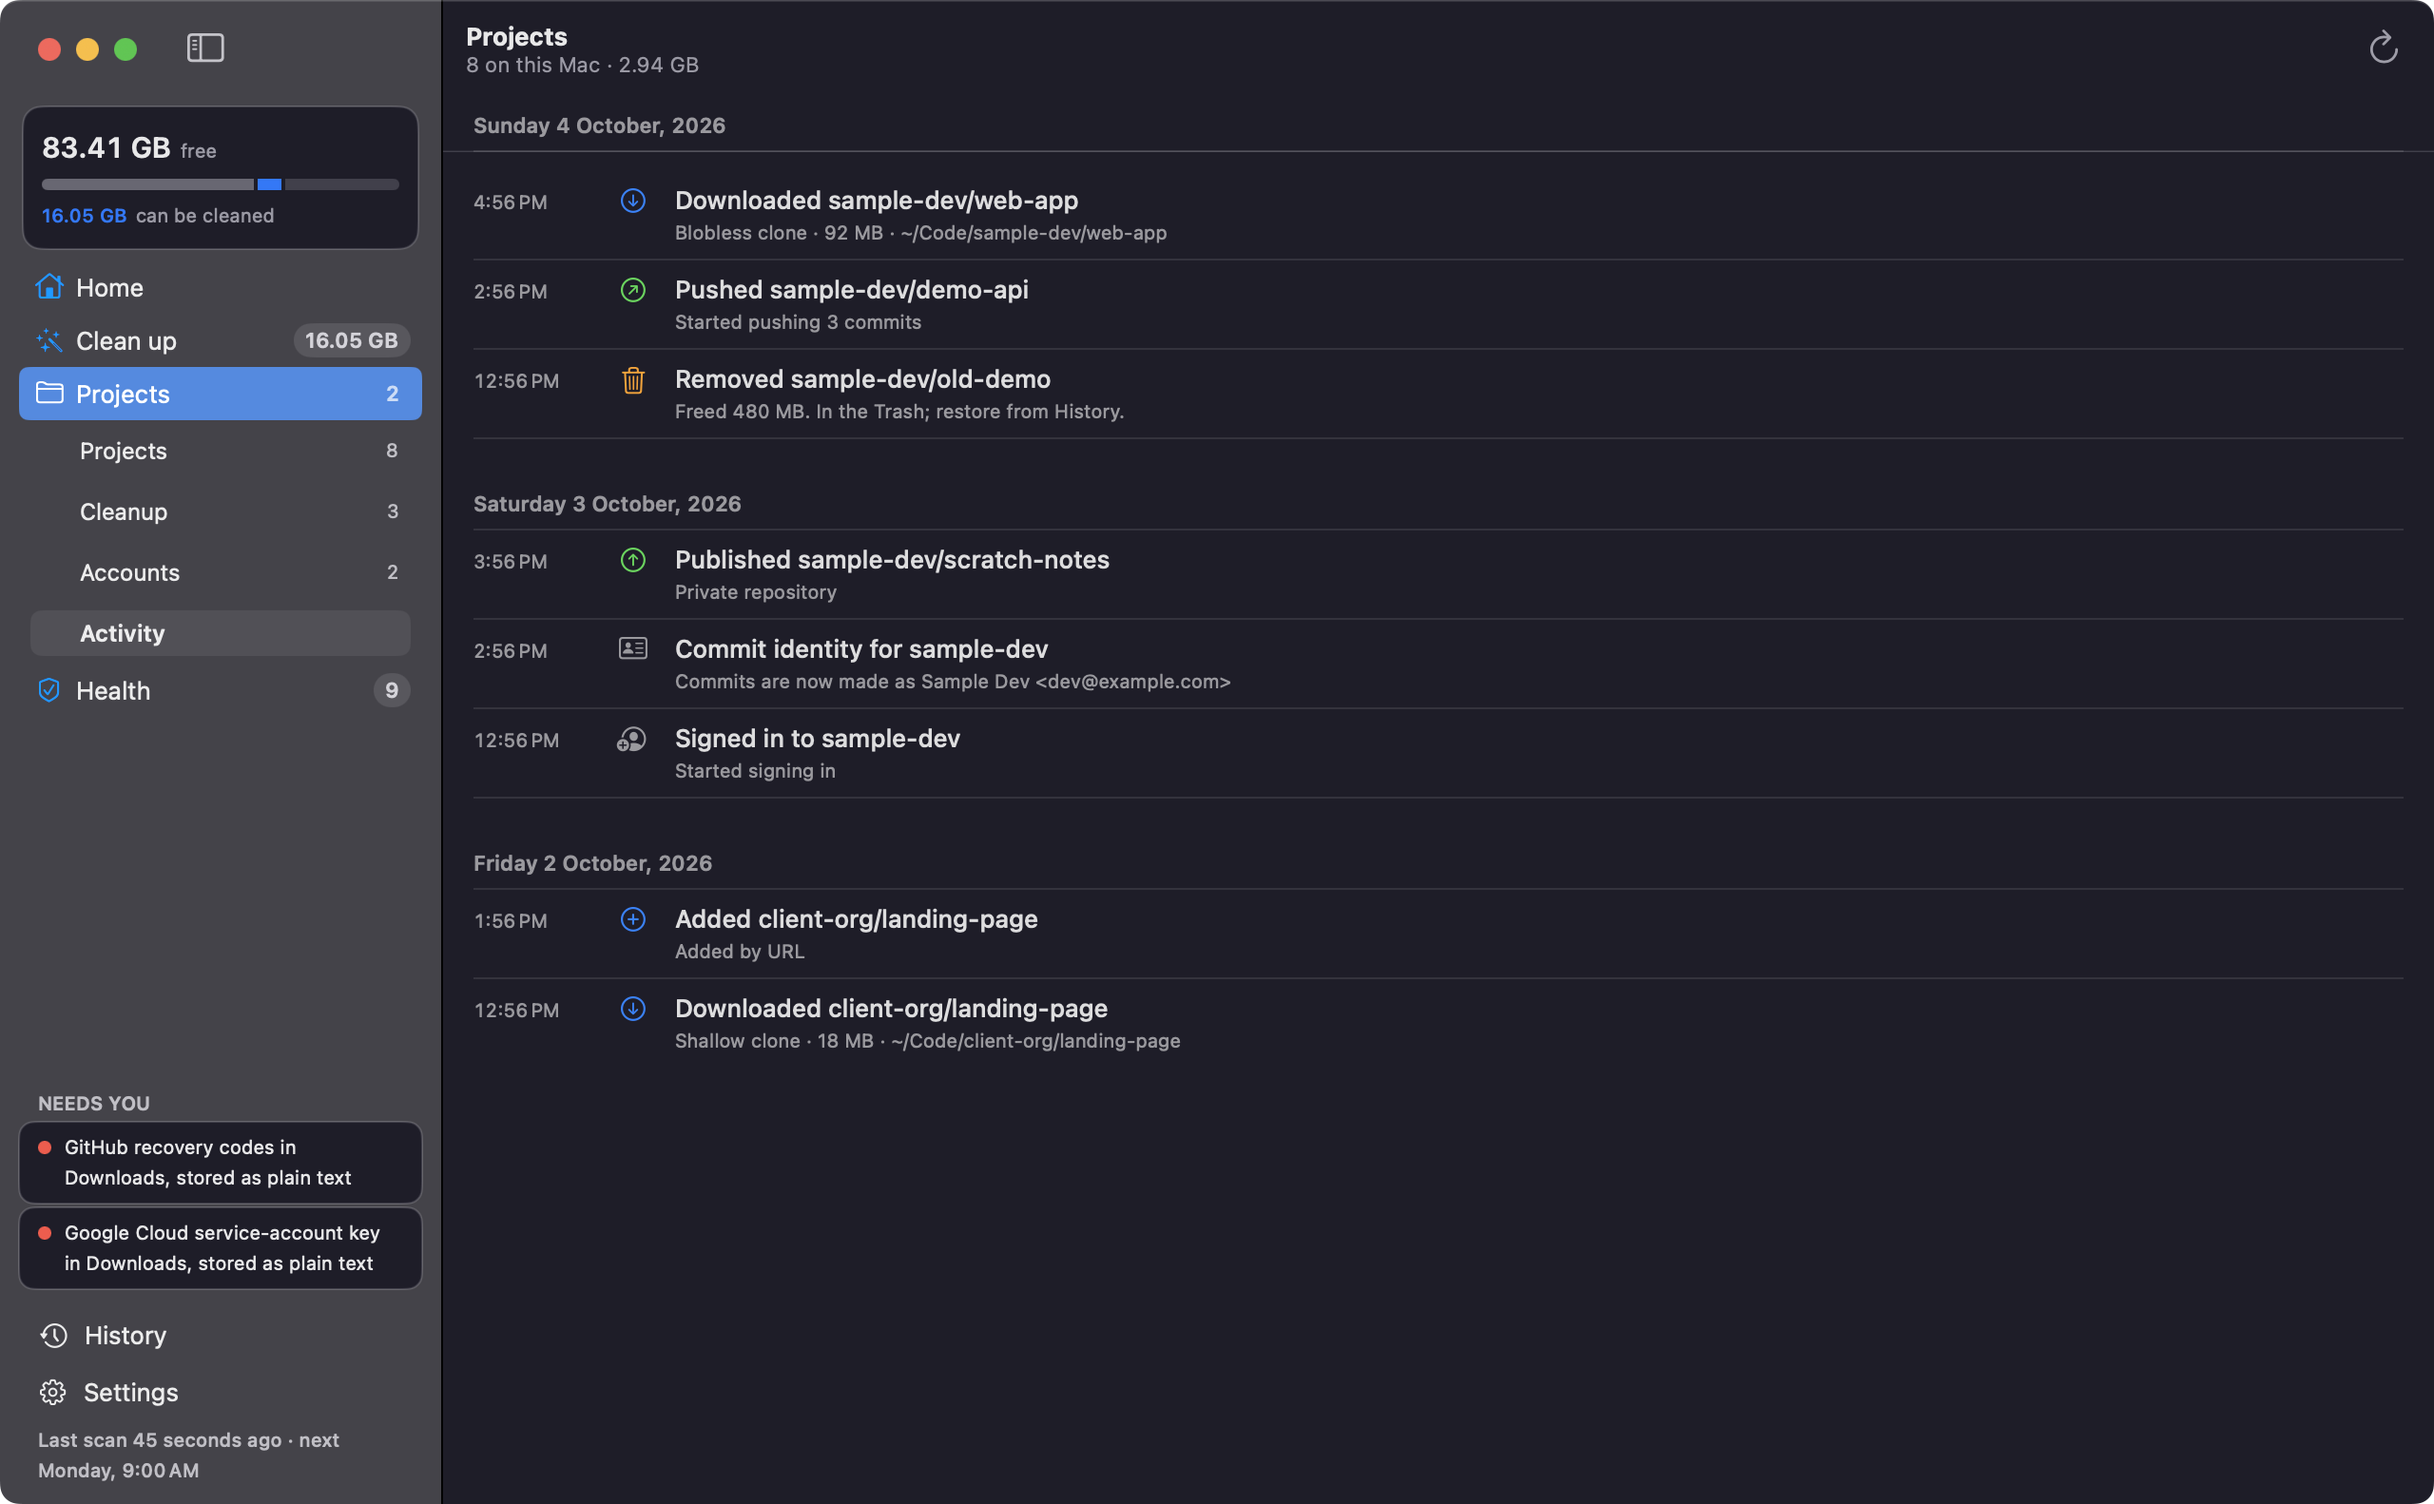
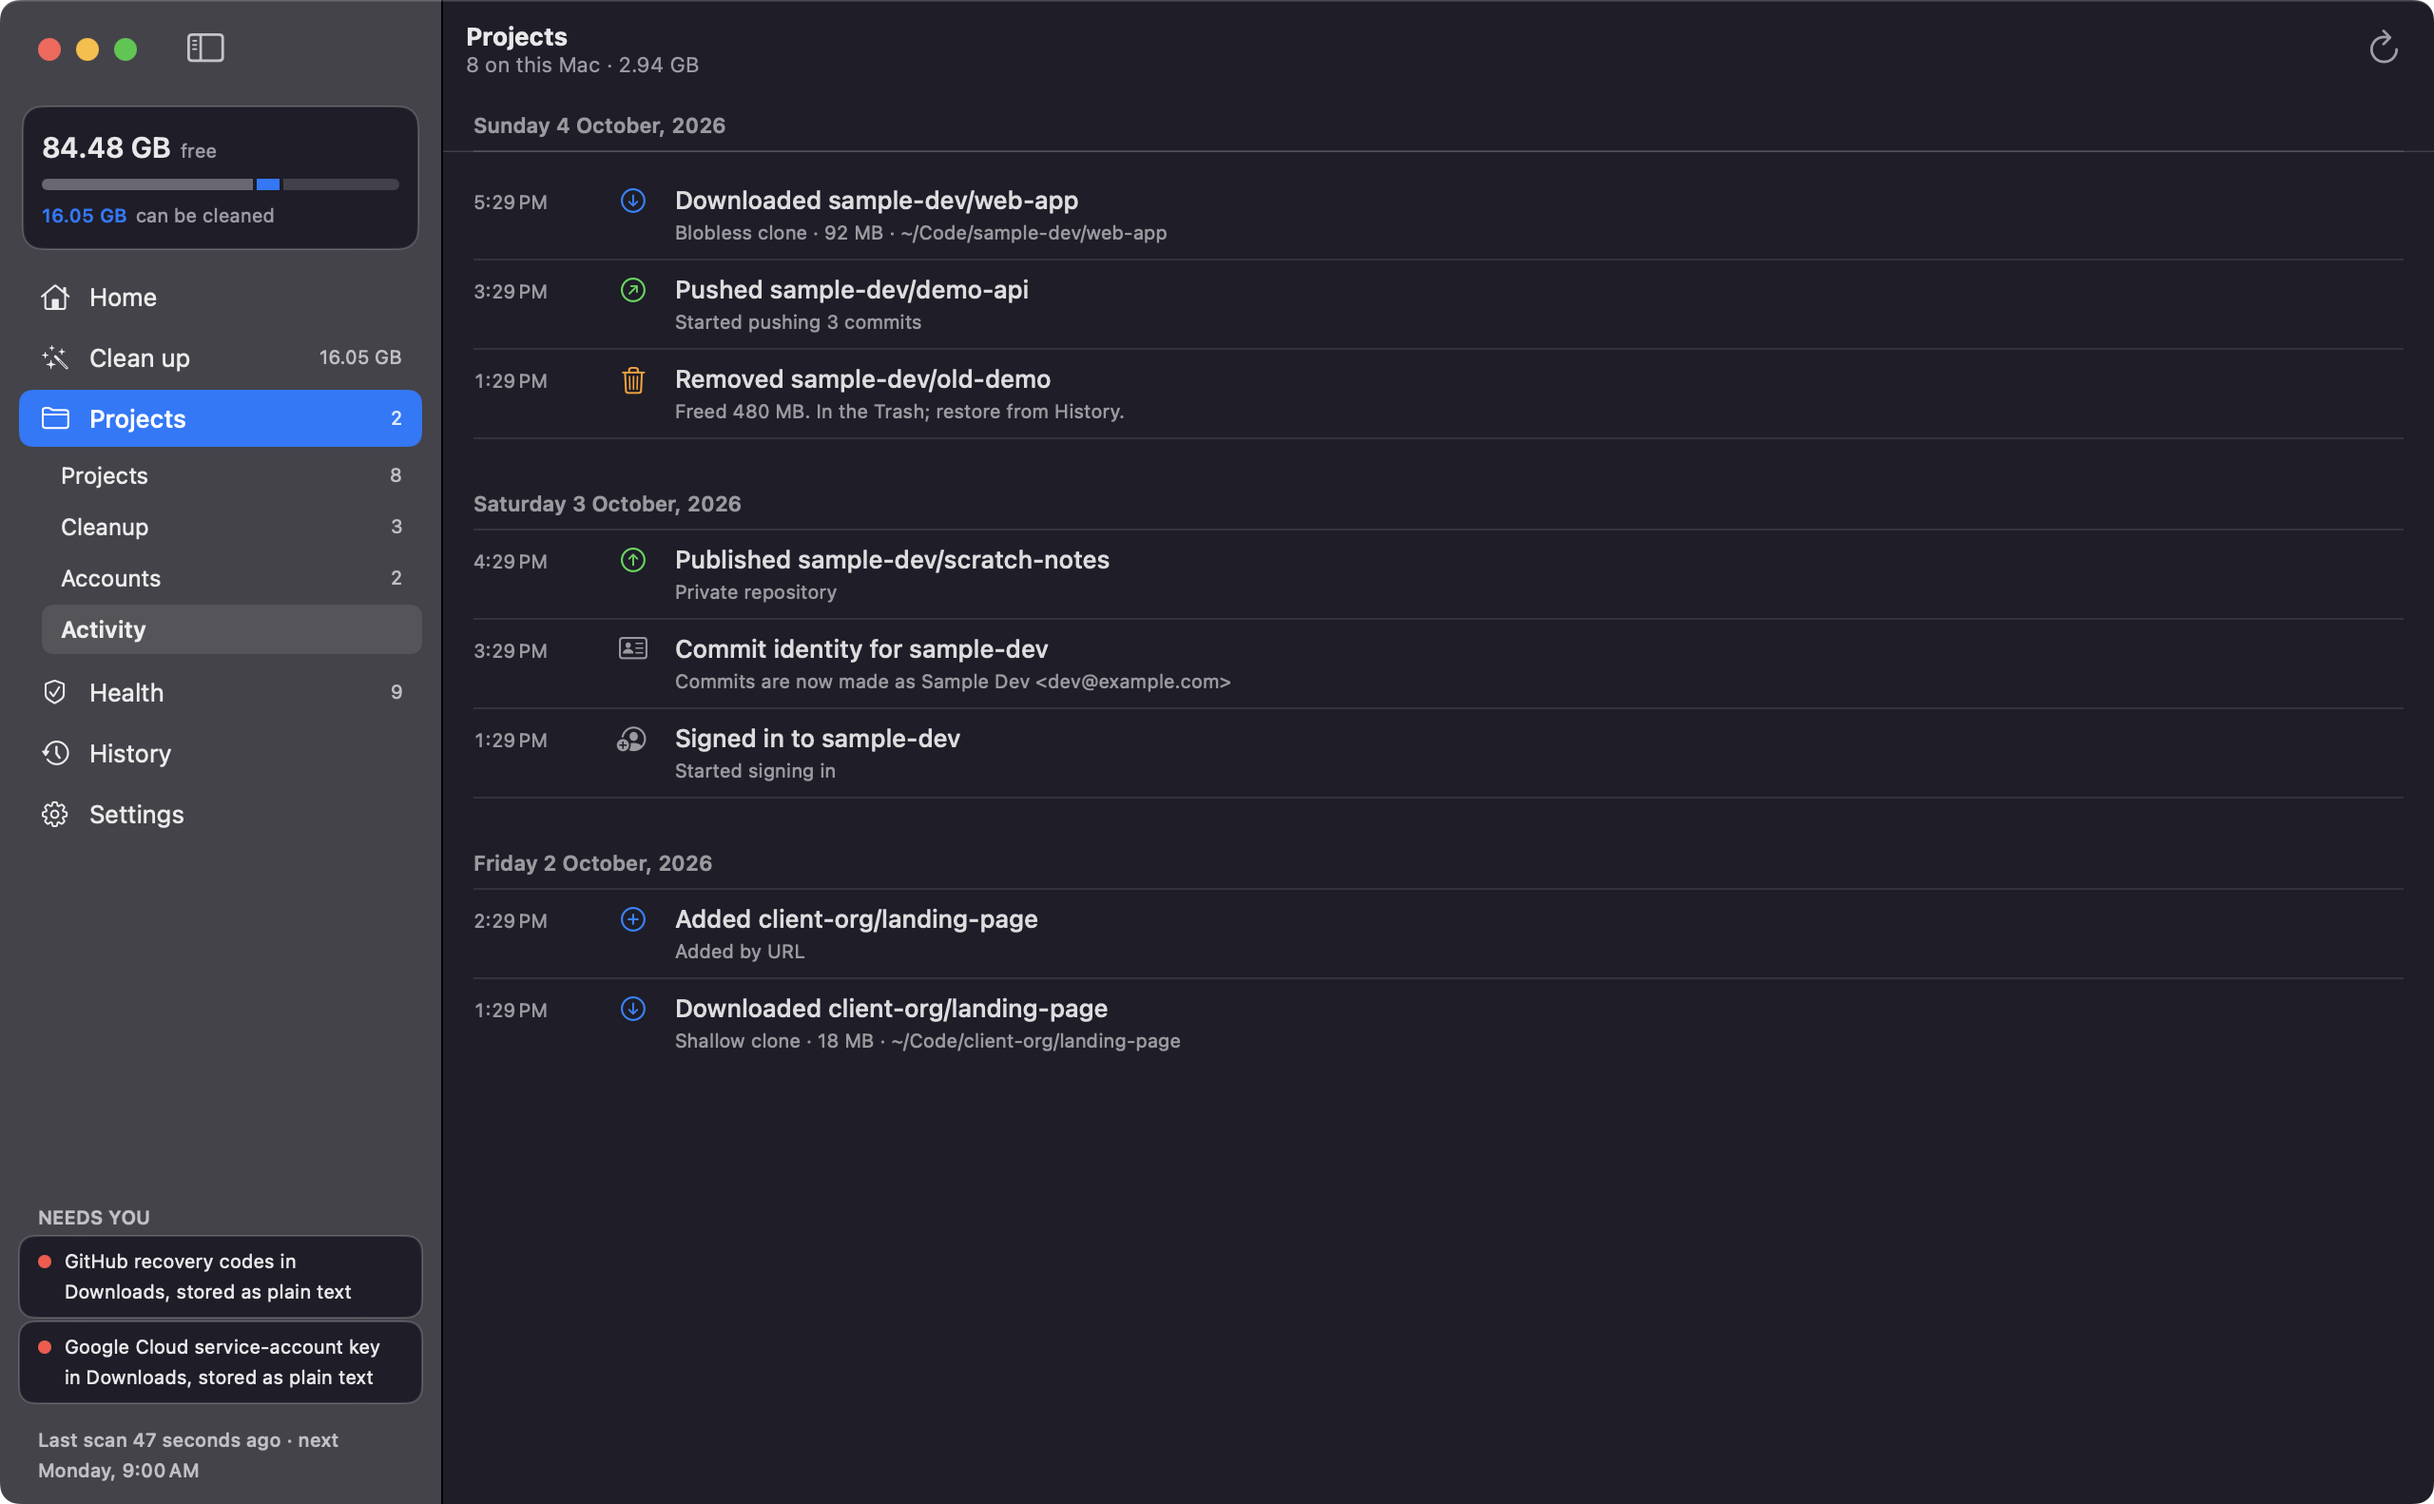
Release notes and screenshots for the new sidebar and inline Settings

Changed region(s): [[0.0, 0.7124, 0.1875, 0.9602], [0.0, 0.1858, 0.1875, 0.4646], [0.0312, 0.4956, 0.0625, 0.5575]]

diff --git a/docs/release-notes/0.8.0.md b/docs/release-notes/0.8.0.md
@@ -7,6 +7,9 @@ Requires macOS 14 Sonoma or later. Projects uses the GitHub CLI (`brew install g
 - **Cleanup.** Local copies you haven't opened in a while: 1 week to 3 months, you choose (3 weeks by default). Biggest first, with what removing them would free. Fully backed-up projects are marked safe and can be removed one by one or all at once; the others say what's holding them back (commits not pushed, uncommitted changes).
 - **Accounts.** Every GitHub account you're signed in to, with how many repositories it has, what's on this Mac, and the name and email its commits use. Edit them and press Save. **Add account** saves the identity first, then opens GitHub's sign-in in Terminal. Clones from organisations you're not signed in to are listed separately.
 - **Activity.** A running trail of downloads, removals, publishes, pushes, added repos, identity changes and sign-ins, by day. The trail RepoShelf kept (downloads, removals and publishes) is brought over the first time.
+- **A sidebar that does real work.** A disk gauge on top, the active section's sub-rows (Clean up kinds, Projects tabs, Health tabs, Settings pages) with counts, up to two "Needs you" alerts, and a last-scan / next-scan line. The selection highlight glides between rows.
+- **Settings is inline** in the main window instead of a separate window. ⌘, and the gear icons open it.
+- **Clear empty states.** Before the first scan Home, Clean up and the menu bar say "Not scanned yet" instead of 0 KB, Health tabs say "Not checked yet", and Projects, Accounts and Settings show a setup card when GitHub isn't connected.
 - **A gear in Projects** opens the GitHub settings directly.
 - **Settings, GitHub** shares the same account cards, so there's one way to edit an identity.
 - **Safer upgrades.** Older settings files load correctly, so identities and known repos you saved are never lost when DevSweep adds new fields.
